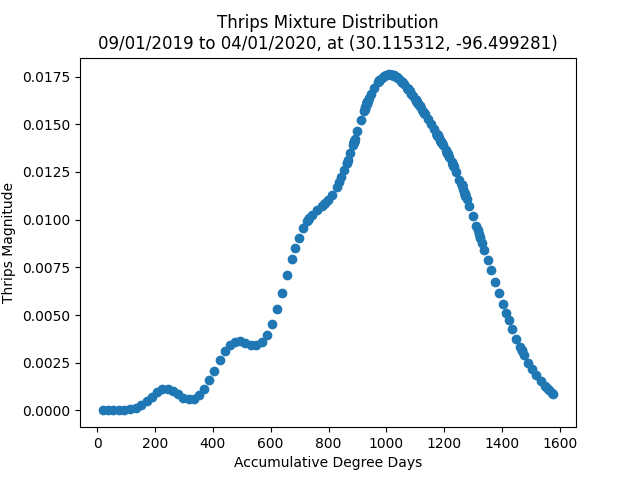
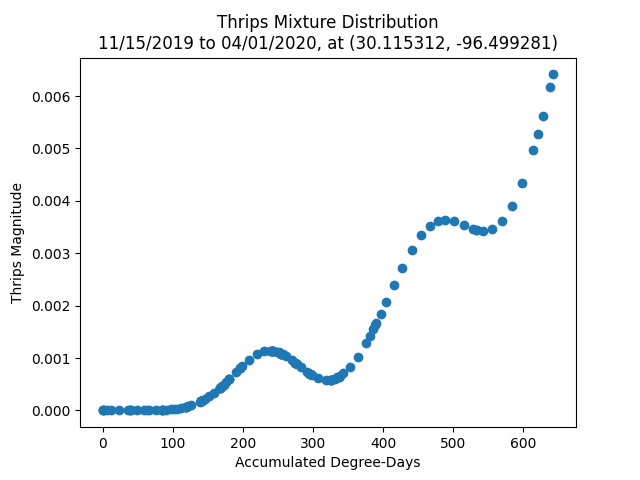
add daily-data folder with gitkeep, update gitgnore, renamed x axis

diff --git a/fleahoppers.py b/fleahoppers.py
@@ -16,7 +16,7 @@ temp_threshold = 14.82
 B0 = -25.1941
 B1 = 0.0363
 
-accumulative_degree_days = []
+accumulated_degree_days = []
 temp_summation = 0
 proportions = []
 
@@ -31,7 +31,7 @@ while current_date <= end_date:
 	if degree_days < 0:
 		degree_days = 0
 	temp_summation += degree_days
-	accumulative_degree_days.append(temp_summation)
+	accumulated_degree_days.append(temp_summation)
 
 	numerator = math.exp(B0 + B1*temp_summation)
 	proportion = numerator / (1 + numerator)
@@ -39,8 +39,8 @@ while current_date <= end_date:
 
 	current_date = current_date + dt.timedelta(days=1)
 
-plt.plot(accumulative_degree_days, proportions)
-plt.title(f"Proportion of Nymph Emergence vs Accumulative Degree-Days\n{start_date.strftime('%m/%d/%Y')} to {end_date.strftime('%m/%d/%Y')}, at ({latitude}, {longitude})")
-plt.xlabel("Accumulative Degree-Days")
+plt.plot(accumulated_degree_days, proportions)
+plt.title(f"Proportion of Nymph Emergence vs Accumulated Degree-Days\n{start_date.strftime('%m/%d/%Y')} to {end_date.strftime('%m/%d/%Y')}, at ({latitude}, {longitude})")
+plt.xlabel("Accumulated Degree-Days")
 plt.ylabel("Proportion of Nymph Emergence")
 plt.savefig("fleahoppers.png") 

diff --git a/thrips.py b/thrips.py
@@ -17,7 +17,7 @@ sigma_values = [50, 70, 90, 120, 170]
 peak = 237			# 237 DD is how many it takes to get from egg to adult for this species
 
 temp_summation = 0
-accumulative_degree_days = []
+accumulated_degree_days = []
 thrips_magnitudes = []
 
 current_date = start_date
@@ -38,13 +38,13 @@ while current_date <= end_date:
 		part_two = exp(-(pow(temp_summation - peak * (i+1), 2)) / (2 * pow(sigma_values[i], 2)))
 		magnitude += part_one * part_two
 
-	accumulative_degree_days.append(temp_summation)
+	accumulated_degree_days.append(temp_summation)
 	thrips_magnitudes.append(magnitude)
 
 	current_date = current_date + dt.timedelta(days=1)
 
-plt.scatter(accumulative_degree_days, thrips_magnitudes) 
+plt.scatter(accumulated_degree_days, thrips_magnitudes) 
 plt.title(f"Thrips Mixture Distribution\n{start_date.strftime('%m/%d/%Y')} to {end_date.strftime('%m/%d/%Y')}, at ({latitude}, {longitude})")
-plt.xlabel("Accumulative Degree-Days")
+plt.xlabel("Accumulated Degree-Days")
 plt.ylabel("Thrips Magnitude")
 plt.savefig("thrips.png") 

diff --git a/setup.py b/setup.py
@@ -3,7 +3,7 @@ import os, shutil
 import datetime as dt
 
 def get_start_date():
-	return dt.datetime.strptime("01-09-2019", "%d-%m-%Y").date()		#DDMMYYYY
+	return dt.datetime.strptime("15-11-2019", "%d-%m-%Y").date()		#DDMMYYYY
 
 def get_end_date():
 	return dt.datetime.strptime("01-04-2020", "%d-%m-%Y").date()
@@ -20,6 +20,8 @@ def get_latitude():
 def clean_data_folder(folder):
 	for filename in os.listdir(folder):
 		file_path = os.path.join(folder, filename)
+		if filename == ".gitkeep":
+			continue
 		try:
 			if os.path.isfile(file_path) or os.path.islink(file_path):
 				os.unlink(file_path)
